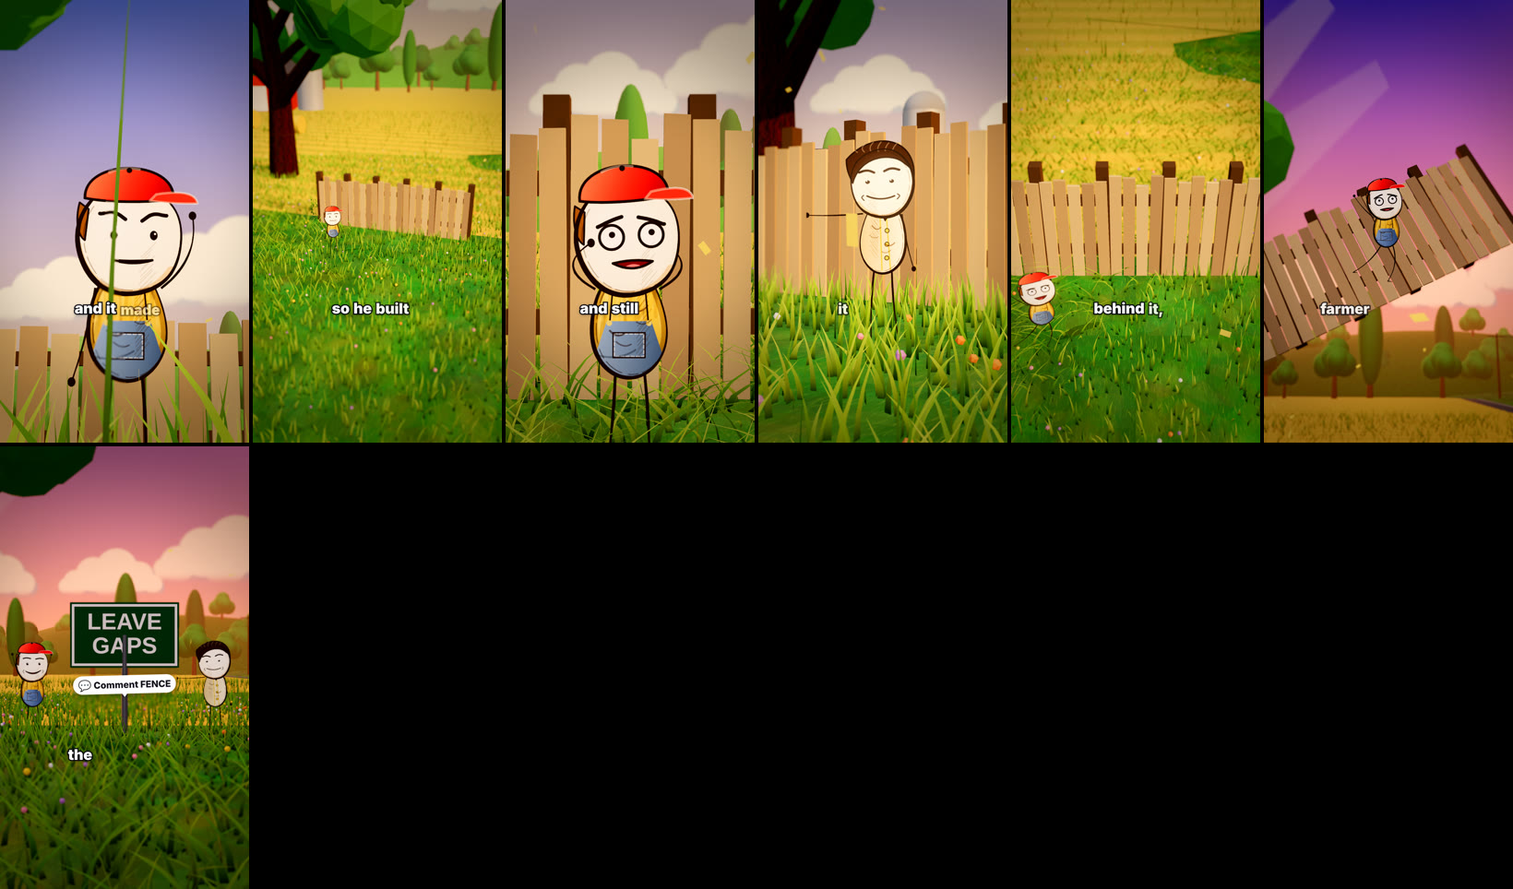
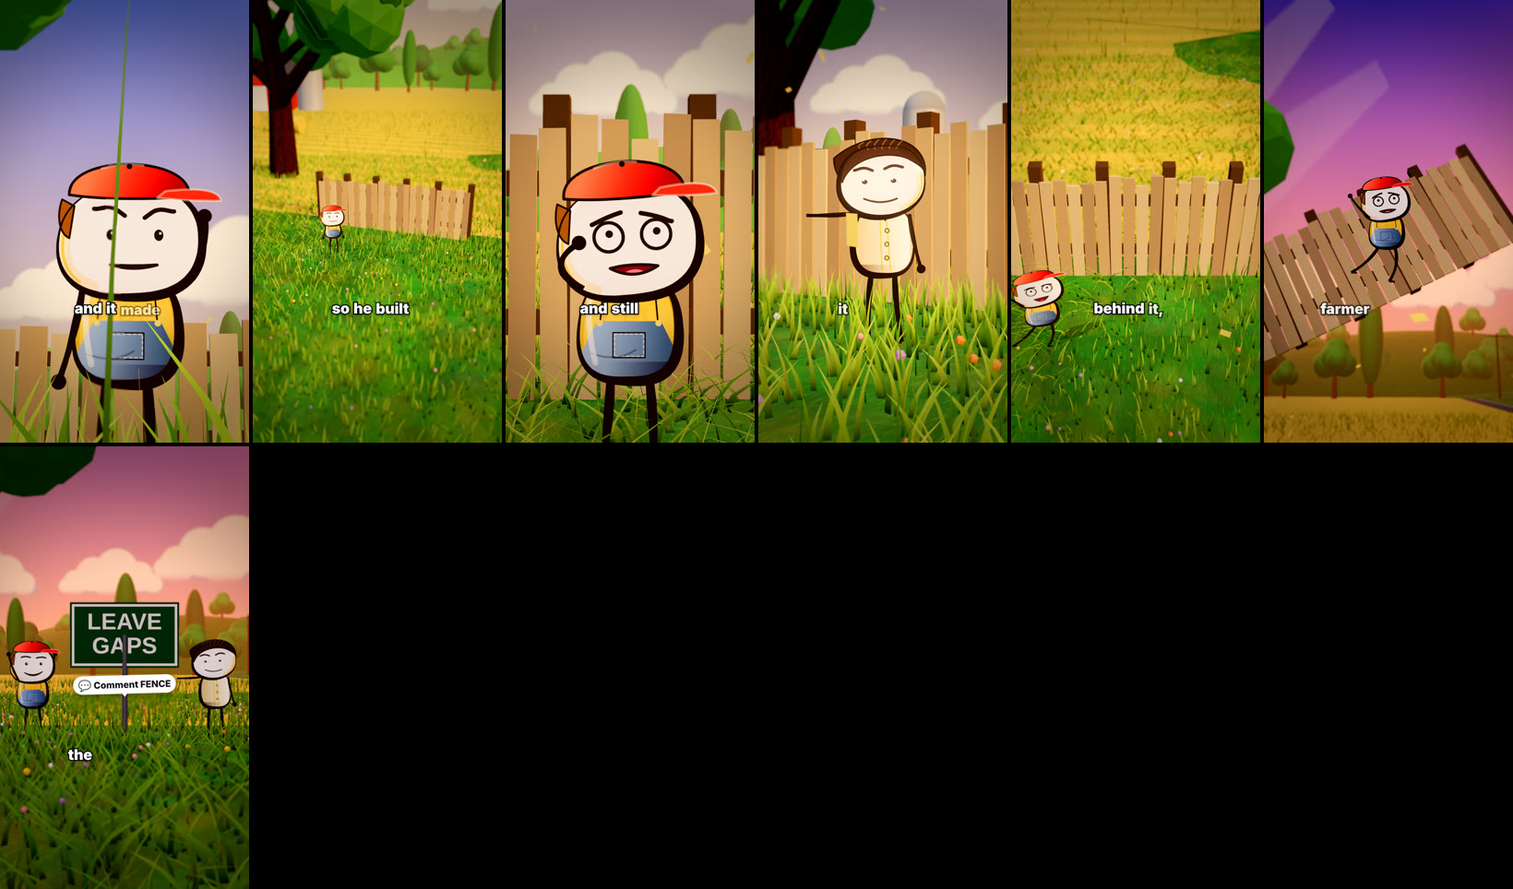
Style 2: lock character spec in skill; world R4 (leaf-card trees, bark, soft clouds, road, field, haze)
Claude-Session: https://claude.ai/code/session_01FGKfNCiFWzyKtetsktk6LF

diff --git a/reel-studio/remotion-template/src/three/worlds_country.js b/reel-studio/remotion-template/src/three/worlds_country.js
@@ -8,7 +8,7 @@ import { sky, clouds, sunlight, hills, tree, mat, T, canvasTex, wire } from './w
 const rnd = (i) => { const x = Math.sin(i * 127.1 + 311.7) * 43758.5453; return x - Math.floor(x); };
 const SKY = { day: ['#2F7FE0', '#BFE3F6', '#BFE4F7'], golden: ['#1F5BC0', '#EFCB98', '#E2B27A'], dusk: ['#4B3F9A', '#FFA070', '#E88A66'], night: ['#050A1E', '#1E2B55', '#0B1230'], storm: ['#4A5568', '#9AA5B1', '#7B8794'] };
 const SUN = { day: { col: '#FFF0D6', i: 3.0, pos: [10, 14, 8], hemi: 1.1, sky: '#CFE6FF', ground: '#B5A070', env: 0.3 }, golden: { col: '#FFC98A', i: 3.9, pos: [16, 7, 5], hemi: 0.7, sky: '#B8D2F2', ground: '#C49A5A', env: 0.28 }, dusk: { col: '#FFB27A', i: 2.7, pos: [-14, 5, -16], hemi: 0.85, sky: '#C9A6E0', ground: '#6A4A3A', env: 0.2 }, night: { col: '#9FB4FF', i: 0.9, pos: [-8, 12, 6], hemi: 0.35, sky: '#2A3A7A', ground: '#10162E', env: 0.06 }, storm: { col: '#DCE6F2', i: 1.2, pos: [6, 12, 6], hemi: 1.0, sky: '#9AA5B1', ground: '#5C6670', env: 0.15 } };
-const GRASS = { day: ['#2E6B22', '#79B83F'], golden: ['#35692A', '#9BC24A'], dusk: ['#2C5A2E', '#7FA84E'], night: ['#143826', '#3C7A5A'], storm: ['#2E5A34', '#6B9A56'] };
+const GRASS = { day: ['#3A6A2A', '#8CB04A'], golden: ['#3A6A2C', '#A3B84F'], dusk: ['#2C5A2E', '#7FA84E'], night: ['#143826', '#3C7A5A'], storm: ['#2E5A34', '#6B9A56'] };
 
 const tex = (key, w, h, draw, rep) => canvasTex(key, w, h, draw, rep);
 const groundTex = (time) => tex('gnd' + time, 1024, 1024, (g, w, h) => { const [a, b] = GRASS[time] || GRASS.day; g.fillStyle = a; g.fillRect(0, 0, w, h); for (let i = 0; i < 520; i++) { g.fillStyle = `rgba(${rnd(i) > 0.5 ? 255 : 20},${rnd(i * 3) > 0.4 ? 240 : 120},${rnd(i * 5) > 0.5 ? 120 : 20},0.05)`; g.beginPath(); g.ellipse(rnd(i * 7) * w, rnd(i * 11) * h, 20 + rnd(i * 13) * 90, 14 + rnd(i * 17) * 60, rnd(i) * 3, 0, 7); g.fill(); } g.strokeStyle = b; for (let i = 0; i < 9000; i++) { g.globalAlpha = 0.1 + rnd(i * 2) * 0.22; g.lineWidth = 1.2; const x = rnd(i * 3) * w, y = rnd(i * 5) * h; g.beginPath(); g.moveTo(x, y); g.lineTo(x + (rnd(i * 7) - 0.5) * 6, y - 6 - rnd(i * 9) * 14); g.stroke(); } g.globalAlpha = 1; }, [60, 60]);
@@ -34,19 +34,31 @@ function swayMaterial(uniforms, o = {}) {
       transformed.x += sw * hh * hh * uWind; transformed.z += cos(uTime * 1.3 + ip.z * 0.35) * 0.06 * hh * hh * uWind;`); };
   return m;
 }
+let LT; function leafTex() { if (LT) return LT; const lc = document.createElement('canvas'); lc.width = lc.height = 256; const lg = lc.getContext('2d'), greens = ['#1F4F1C', '#2F6B26', '#3F8A2E', '#5BA83C', '#7CC24A', '#A4D860'];
+    for (let i = 0; i < 70; i++) { const x = 20 + rnd(i) * 216, y = 20 + rnd(i * 3) * 216, a = rnd(i * 7) * 6.28, L = 26 + rnd(i * 5) * 22, c = greens[Math.floor(rnd(i * 11) * greens.length)]; lg.save(); lg.translate(x, y); lg.rotate(a); lg.fillStyle = c; lg.beginPath(); lg.moveTo(0, -L); lg.quadraticCurveTo(L * 0.7, -L * 0.2, 0, L); lg.quadraticCurveTo(-L * 0.7, -L * 0.2, 0, -L); lg.fill(); lg.strokeStyle = 'rgba(255,255,200,0.25)'; lg.lineWidth = 2; lg.beginPath(); lg.moveTo(0, -L * 0.8); lg.lineTo(0, L * 0.8); lg.stroke(); lg.restore(); }
+    LT = new THREE.CanvasTexture(lc); LT.colorSpace = THREE.SRGBColorSpace; return LT; }
+function leafTree(time, s, seed) {
+  const g = new THREE.Group(), trunk = new THREE.Mesh(new THREE.CylinderGeometry(0.1 * s, 0.16 * s, 2.2 * s, 8), new THREE.MeshStandardMaterial({ color: '#6B4A30', roughness: 1 })); trunk.position.y = 1.1 * s; g.add(trunk);
+  const N = 240, cards = new THREE.InstancedMesh(new THREE.PlaneGeometry(1, 1), new THREE.MeshStandardMaterial({ map: leafTex(), alphaTest: 0.5, side: THREE.DoubleSide, roughness: 0.9, color: time === 'night' ? '#3A5A48' : '#FFFFFF' }), N), D = new THREE.Object3D(), c = new THREE.Color();
+  for (let i = 0; i < N; i++) { const u = rnd(seed + i * 1.3) * 6.28, v = Math.acos(2 * rnd(seed + i * 2.1) - 1), r = (0.5 + rnd(seed + i * 3.7) * 0.5) * 1.9 * s; D.position.set(Math.sin(v) * Math.cos(u) * r * 1.2, 3.3 * s + Math.cos(v) * r * 0.95, Math.sin(v) * Math.sin(u) * r * 1.2); D.rotation.set(rnd(i * 5) * 6.28, rnd(i * 7) * 6.28, rnd(i * 9) * 6.28); D.scale.setScalar((0.9 + rnd(seed + i * 11) * 0.8) * s); D.updateMatrix(); cards.setMatrixAt(i, D.matrix); const sh = 0.6 + 0.5 * Math.max(0, Math.cos(v)) + rnd(i * 13) * 0.15; c.setRGB(sh, sh * 1.03, sh * 0.9); cards.setColorAt(i, c); }
+  g.add(cards); const core = new THREE.Mesh(new THREE.IcosahedronGeometry(1.2 * s, 1), new THREE.MeshStandardMaterial({ color: time === 'night' ? '#14281E' : '#25531F', roughness: 1, flatShading: true })); core.position.y = 3.3 * s; g.add(core); return g;
+}
 function bigOak(time, wind) {
-  const g = new THREE.Group(), bark = new THREE.MeshStandardMaterial({ map: barkTex(), roughness: 1, color: '#9A7A58' });
+  const g = new THREE.Group(), bark = new THREE.MeshStandardMaterial({ map: barkTex(), bumpMap: barkTex(), bumpScale: 2.2, roughness: 1, color: '#B89A78' });
   const seg = (a, b, r0, r1) => { const d = new THREE.Vector3().subVectors(b, a), m = new THREE.Mesh(new THREE.CylinderGeometry(r1, r0, d.length(), 10, 1), bark); m.position.copy(a).addScaledVector(d, 0.5); m.quaternion.setFromUnitVectors(new THREE.Vector3(0, 1, 0), d.clone().normalize()); m.castShadow = m.receiveShadow = true; g.add(m); };
   seg(new THREE.Vector3(0, 0, 0), new THREE.Vector3(0.1, 3.4, 0), 0.62, 0.42); seg(new THREE.Vector3(0.1, 3.4, 0), new THREE.Vector3(-0.3, 6.6, 0.2), 0.42, 0.26);
   const br = [[0.1, 3.0, [2.4, 5.2, 0.6], 0.2], [0.1, 3.4, [-2.6, 5.6, -0.4], 0.2], [-0.2, 5.0, [1.9, 7.6, 0.2], 0.15], [-0.2, 5.4, [-2.0, 7.9, 0.5], 0.15], [-0.3, 6.4, [0.6, 8.8, -0.6], 0.12], [0, 4.2, [3.6, 6.2, 1.4], 0.12]];
   br.forEach(([x, y, e, r]) => { const s0 = new THREE.Vector3(x, y, 0), e0 = new THREE.Vector3(...e); seg(s0, e0, r * 1.6, r); });
   const leaf = [['#2F6B26', 0.55], ['#4E9A3C', 0.5], ['#6DB84A', 0.45], ['#3C8230', 0.5]], tips = [[2.4, 5.2, 0.6], [-2.6, 5.6, -0.4], [1.9, 7.6, 0.2], [-2.0, 7.9, 0.5], [0.6, 8.8, -0.6], [3.6, 6.2, 1.4], [0, 7.2, 0]];
-  tips.forEach((tp, ti) => { for (let k = 0; k < 9; k++) { const c = leaf[(k + ti) % 4], m = new THREE.Mesh(new THREE.IcosahedronGeometry(0.75 + rnd(ti * 9 + k) * 0.7, 1), new THREE.MeshStandardMaterial({ color: time === 'night' ? '#244636' : c[0], roughness: 0.9, flatShading: true })); m.position.set(tp[0] + (rnd(ti * 13 + k) - 0.5) * 2.6, tp[1] + (rnd(ti * 17 + k) - 0.3) * 1.8, tp[2] + (rnd(ti * 19 + k) - 0.5) * 2.2); m.castShadow = m.receiveShadow = true; g.add(m); } });
+  { const lt = leafTex(); const N = 3200, cards = new THREE.InstancedMesh(new THREE.PlaneGeometry(1, 1), new THREE.MeshStandardMaterial({ map: lt, alphaTest: 0.5, side: THREE.DoubleSide, roughness: 0.85, color: time === 'night' ? '#4A6A58' : '#FFFFFF' }), N), DD = new THREE.Object3D(), cc = new THREE.Color(); cards.castShadow = cards.receiveShadow = true;
+    for (let i = 0; i < N; i++) { const tp = tips[i % tips.length], u = rnd(i * 1.3) * 6.28, v = Math.acos(2 * rnd(i * 2.1) - 1), rr = (0.6 + rnd(i * 3.7) * 1.4) * (1.1 + (i % tips.length === 6 ? 0.5 : 0)); const x = tp[0] + Math.sin(v) * Math.cos(u) * rr * 1.5, y = tp[1] + Math.cos(v) * rr * 1.1 + 0.3, z = tp[2] + Math.sin(v) * Math.sin(u) * rr * 1.4; DD.position.set(x, y, z); DD.rotation.set(rnd(i * 5) * 6.28, rnd(i * 7) * 6.28, rnd(i * 9) * 6.28); DD.scale.setScalar(0.7 + rnd(i * 11) * 0.7); DD.updateMatrix(); cards.setMatrixAt(i, DD.matrix); const sh = 0.55 + 0.6 * Math.max(0, Math.min(1, (y - 4) / 6)) + rnd(i * 13) * 0.15; cc.setRGB(sh, sh * 1.02, sh * 0.9); cards.setColorAt(i, cc); }
+    g.add(cards);
+    tips.forEach((tp, ti) => { for (let k = 0; k < 3; k++) { const m = new THREE.Mesh(new THREE.IcosahedronGeometry(0.9 + rnd(ti * 9 + k) * 0.5, 1), new THREE.MeshStandardMaterial({ color: time === 'night' ? '#14281E' : '#1F4A1E', roughness: 1, flatShading: true })); m.position.set(tp[0] + (rnd(ti * 13 + k) - 0.5) * 1.4, tp[1] + (rnd(ti * 17 + k) - 0.5) * 1.0, tp[2] + (rnd(ti * 19 + k) - 0.5) * 1.2); g.add(m); } }); }
   g.userData.sway = (t) => { g.rotation.z = Math.sin(t * 0.7) * 0.006 * wind; }; return g;
 }
 export function countryField(E, o = {}) {
   const time = o.time || 'day', scene = new THREE.Scene(), [top, hor, gnd] = SKY[time] || SKY.day, S = SUN[time] || SUN.day, wind = o.wind ?? 1, U = { uTime: { value: 0 }, uWind: { value: wind } };
-  sky(scene, { top, horizon: hor, ground: gnd }); scene.fog = new THREE.Fog(hor, o.fogNear ?? 45, o.fogFar ?? 230);
+  sky(scene, { top, horizon: hor, ground: gnd }); scene.fog = new THREE.Fog(hor, o.fogNear ?? 28, o.fogFar ?? 200);
   const sun = sunlight(scene, E, { col: S.col, i: S.i, pos: S.pos, sky: S.sky, ground: S.ground, hemi: S.hemi, env: S.env, box: 20 });
   const cl = clouds(scene, [[-60, 30, -150, 22], [20, 40, -170, 28], [90, 26, -140, 18], [-12, 22, -110, 13], [-95, 36, -130, 20], [50, 18, -100, 10], [140, 34, -150, 22]], time === 'night' ? '#3A4A7A' : time === 'dusk' ? '#FFB8A0' : time === 'storm' ? '#6C7683' : time === 'golden' ? '#FFE8C8' : '#FFFFFF');
   // ground: large rolling plane, mottled grass texture with low-frequency colour variation
@@ -55,13 +67,13 @@ export function countryField(E, o = {}) {
   geo.setAttribute('color', new THREE.Float32BufferAttribute(col, 3)); geo.computeVertexNormals();
   const ground = new THREE.Mesh(geo, mat({ map: groundTex(time), vertexColors: true })); ground.rotation.x = -Math.PI / 2; ground.position.y = -0.02; ground.receiveShadow = true; scene.add(ground);
   // road with cracks, edge lines, shoulders; wheat field with rows behind a wire fence; power poles with wires
-  if (o.road !== false) { const rx = o.roadX ?? 13; const rd = new THREE.Mesh(new THREE.PlaneGeometry(o.roadW || 5.4, 300), mat({ map: roadTex(time), roughness: 0.92 })); rd.material.map.repeat.set(1, 30); rd.rotation.x = -Math.PI / 2; rd.position.set(rx, 0.015, -100); rd.receiveShadow = true; scene.add(rd);
+  if (o.road !== false) { const rx = o.roadX ?? 13; const rd = new THREE.Mesh(new THREE.PlaneGeometry(o.roadW || 5.4, 560), mat({ map: roadTex(time), roughness: 0.92 })); rd.material.map.repeat.set(1, 56); rd.rotation.x = -Math.PI / 2; rd.position.set(rx, 0.03, -90); rd.receiveShadow = true; scene.add(rd);
     const pg = new THREE.Group(); const pm = mat({ color: '#6E4E36' }); for (let i = 0; i < 9; i++) { const z = 8 - i * 20, x = rx + 5.4; const pl = new THREE.Mesh(new THREE.CylinderGeometry(0.14, 0.19, 9, 10), pm); pl.position.set(x, 4.5, z); pl.castShadow = true; pg.add(pl); const cr = new THREE.Mesh(new THREE.BoxGeometry(2.4, 0.14, 0.14), pm); cr.position.set(x, 8.6, z); pg.add(cr); if (i < 8) [-1, 0, 1].forEach((k) => pg.add(wire(new THREE.Vector3(x + k * 1.0, 8.6, z), new THREE.Vector3(x + k * 1.0, 8.6, z - 20), 0.7, '#1a1a20'))); } scene.add(pg); }
-  const field = new THREE.Mesh(new THREE.PlaneGeometry(o.fieldW || 150, 120), mat({ map: fieldTex(time), roughness: 1 })); field.rotation.x = -Math.PI / 2; field.position.set(o.fieldX ?? -62, 0.02, -62); field.receiveShadow = true; scene.add(field);
+  const field = new THREE.Mesh(new THREE.PlaneGeometry(o.fieldW || 215, o.fieldD || 240), mat({ map: fieldTex(time), roughness: 1 })); field.material.map.wrapS = field.material.map.wrapT = THREE.RepeatWrapping; field.material.map.repeat.set(7, 6); field.rotation.x = -Math.PI / 2; field.position.set(o.fieldX ?? -95, 0.02, -120); field.receiveShadow = true; scene.add(field);
   const fp = new THREE.Group(), fm = mat({ color: '#7A6040' }); for (let i = 0; i < 38; i++) { const x = -20 - i * 3.2, post = new THREE.Mesh(new THREE.BoxGeometry(0.12, 1.3, 0.12), fm); post.position.set(x, 0.65, -9); post.castShadow = true; fp.add(post); if (i < 37) [0.45, 0.8, 1.15].forEach((y) => fp.add(wire(new THREE.Vector3(x, y, -9), new THREE.Vector3(x - 3.2, y, -9), 0.05, '#2a2a2a'))); } scene.add(fp);
-  hills(scene, { z: -95, col: time === 'night' ? '#244636' : time === 'dusk' ? '#7FA55E' : '#79C25A' });
+  hills(scene, { treeFn: (s, k) => leafTree(time, s, k), z: -95, col: time === 'night' ? '#244636' : time === 'dusk' ? '#7FA55E' : '#79C25A' });
   // treeline, the oak, barn + silo, bales
-  for (let i = 0; i < 46; i++) { const a = -70 + i * 3.4 + rnd(i) * 3, z = -60 - rnd(i * 3) * 30, t = tree(1.4 + rnd(i * 5) * 1.5, i % 3 ? (time === 'night' ? '#2A5240' : '#3E8A34') : '#2C6A2C', i % 4 === 0 ? 'cypress' : 'round'); t.position.set(a, 0, z); scene.add(t); }
+  for (let i = 0; i < 46; i++) { const a = -70 + i * 3.4 + rnd(i) * 3, z = -60 - rnd(i * 3) * 30, t = i % 4 === 0 ? tree(1.4 + rnd(i * 5) * 1.5, '#2C6A2C', 'cypress') : leafTree(time, 1.5 + rnd(i * 5) * 1.6, i * 7); t.position.set(a, 0, z); scene.add(t); }
   const oak = bigOak(time, wind); oak.position.set(o.oakAt?.[0] ?? -7.5, 0, o.oakAt?.[1] ?? -7); oak.scale.setScalar(o.oakScale ?? 1.3); scene.add(oak);
   const barn = new THREE.Group(), red = mat({ color: time === 'night' ? '#5A2A28' : '#B03A2E' }), wh = mat({ color: '#F2EEE4' });
   const bx = (w, h, d, m, x, y, z, parent) => { const b = new THREE.Mesh(new THREE.BoxGeometry(w, h, d), m); b.position.set(x, y, z); b.castShadow = b.receiveShadow = true; parent.add(b); return b; };
@@ -79,7 +91,7 @@ export function countryField(E, o = {}) {
     for (let i = 0; i < 7; i++) { const r = new THREE.Mesh(new THREE.PlaneGeometry(16 + i * 3, 150), new THREE.MeshBasicMaterial({ map: rayTex(), transparent: true, opacity: 0.14, blending: THREE.AdditiveBlending, depthWrite: false, fog: false, side: THREE.DoubleSide })); r.position.copy(dir.clone().multiplyScalar(80)).add(new THREE.Vector3(i * 2 - 6, -18, 0)); r.lookAt(dir.clone().multiplyScalar(300)); r.rotateZ(-0.5 + i * 0.2); scene.add(r); rays.push(r); }
   }
   // grass: 30k blades in three bands (tall foreground, medium, wheat), plus a few flowers
-  const bg = bladeGeometry(), gm = swayMaterial(U), blade = (n, f) => { const im = new THREE.InstancedMesh(bg, gm, n), D = new THREE.Object3D(), c = new THREE.Color(); for (let i = 0; i < n; i++) { const r = f(i); D.position.set(r.x, 0, r.z); D.rotation.set(0, rnd(i * 5) * 6.28, 0); D.scale.set(0.9 + rnd(i * 3) * 0.5, r.h, 1); D.updateMatrix(); im.setMatrixAt(i, D.matrix); c.setHSL(0.24 + rnd(i * 9) * 0.05, 0.55 + rnd(i * 4) * 0.2, 0.6 + rnd(i * 6) * 0.35); im.setColorAt(i, c); } im.castShadow = false; im.receiveShadow = true; im.frustumCulled = false; scene.add(im); return im; };
+  const bg = bladeGeometry(), gm = swayMaterial(U), blade = (n, f) => { const im = new THREE.InstancedMesh(bg, gm, n), D = new THREE.Object3D(), c = new THREE.Color(); for (let i = 0; i < n; i++) { const r = f(i); D.position.set(r.x, 0, r.z); D.rotation.set(0, rnd(i * 5) * 6.28, 0); D.scale.set(0.9 + rnd(i * 3) * 0.5, r.h, 1); D.updateMatrix(); im.setMatrixAt(i, D.matrix); c.setHSL(0.2 + rnd(i * 9) * 0.07, 0.42 + rnd(i * 4) * 0.16, 0.38 + rnd(i * 6) * 0.3); im.setColorAt(i, c); } im.castShadow = false; im.receiveShadow = true; im.frustumCulled = false; scene.add(im); return im; };
   blade(26000, (i) => { const a = rnd(i * 1.7) * 6.28, r = Math.sqrt(rnd(i * 5.1)) * 16; return { x: Math.cos(a) * r + 0.4, z: Math.sin(a) * r * 0.9 + 0.8, h: 0.16 + rnd(i * 7) * 0.34 }; });
   blade(9000, (i) => { const a = rnd(i * 2.3) * 6.28, r = 7 + Math.sqrt(rnd(i * 4.1)) * 30; return { x: Math.cos(a) * r, z: Math.sin(a) * r * 0.9 - 4, h: 0.3 + rnd(i * 9) * 0.5 }; });
   const wmat = swayMaterial(U, { roughness: 0.9 }), wheat = new THREE.InstancedMesh(bg, wmat, 9000), D2 = new THREE.Object3D(), c2 = new THREE.Color();
@@ -88,7 +100,7 @@ export function countryField(E, o = {}) {
   for (let i = 0; i < 500; i++) { const a = rnd(i) * 6.28, r = 2 + rnd(i * 3.3) * 14; FD.position.set(Math.cos(a) * r, 0.16 + rnd(i) * 0.12, Math.sin(a) * r * 0.9 - 1); FD.scale.setScalar(0.5 + rnd(i * 5) * 0.4); FD.updateMatrix(); flw.setMatrixAt(i, FD.matrix); flw.setColorAt(i, new THREE.Color(['#F2D23A', '#F29BB5', '#FFFFFF', '#B98ACF', '#F28C4A'][i % 5])); } scene.add(flw);
   const leafGeo = new THREE.PlaneGeometry(0.09, 0.05), leaves = new THREE.InstancedMesh(leafGeo, new THREE.MeshBasicMaterial({ color: time === 'night' ? '#6A7AA8' : '#E8C25A', side: THREE.DoubleSide, transparent: true, opacity: 0.85, fog: false }), 140), LD = new THREE.Object3D(); scene.add(leaves);
   const flutter = (t) => { for (let i = 0; i < 140; i++) { const sp = 1.2 + rnd(i) * 2.2, x = ((rnd(i * 3) * 40 - 20 + t * sp * wind) % 40 + 40) % 40 - 20, y = 0.4 + rnd(i * 7) * 3.2 + Math.sin(t * 2 + i) * 0.25, z = -6 + rnd(i * 11) * 12; LD.position.set(x, y, z); LD.rotation.set(t * 3 + i, t * 2.2 + i * 2, t * 1.7); LD.updateMatrix(); leaves.setMatrixAt(i, LD.matrix); } leaves.instanceMatrix.needsUpdate = true; };
-  return { scene, sun, reflect: false, look: { bloom: time === 'night' ? 0.9 : 0.22, bloomThreshold: 0.92, vignette: 0.34, grain: 0.018, warm: time === 'golden' || time === 'dusk' ? 0.06 : 0.02, exposure: time === 'night' ? 0.9 : 1.0, saturation: 1.22, contrast: 1.14, aperture: 0.004, maxblur: 0.012 },
+  return { scene, sun, reflect: false, look: { bloom: time === 'night' ? 0.9 : 0.22, bloomThreshold: 0.92, vignette: 0.34, grain: 0.018, warm: time === 'golden' || time === 'dusk' ? 0.06 : 0.02, exposure: time === 'night' ? 0.9 : 1.0, saturation: 1.1, contrast: 1.1, aperture: 0.004, maxblur: 0.012 },
     subjects: { field: { pos: [0, 0, 0], height: 1.9, rotY: 0 }, oak: { pos: [oak.position.x, 0, oak.position.z], height: 9, rotY: 0 }, barn: { pos: [barn.position.x, 0, barn.position.z], height: 5, rotY: 0 }, windmill: { pos: [mill.position.x, 0, mill.position.z], height: 13, rotY: 0 }, horizon: { pos: [0, 4, -90], height: 20, rotY: 0 }, sky: { pos: [0, 40, -100], height: 30, rotY: 0 } },
     update(t) { U.uTime.value = t; flutter(t); oak.userData.sway(t); rotor.rotation.z = -t * 0.9 * wind; cl.forEach((c, i) => { c.position.x = [-60, 20, 90, -12, -95, 50, 140][i] + Math.sin(t * 0.05 + i) * 3 + t * 0.4 * wind; }); rays.forEach((r, i) => { r.material.opacity = 0.1 + 0.05 * Math.sin(t * 0.5 + i * 1.7); }); } };
 }

diff --git a/reel-studio/remotion-template/src/three/world.js b/reel-studio/remotion-template/src/three/world.js
@@ -126,12 +126,15 @@ export function sky(scene, { top = '#3D8EE0', horizon = '#BFE4F7', ground = '#BF
 let cloudT = null;
 function cloudTex() {
   if (cloudT) return cloudT;
-  const c = document.createElement('canvas'); c.width = 512; c.height = 256; const g = c.getContext('2d');
-  const puffs = [[110, 175, 58], [185, 140, 80], [285, 118, 96], [380, 150, 70], [250, 178, 70], [440, 180, 44], [70, 190, 36]];
-  g.filter = 'blur(3px)';
-  g.fillStyle = '#B9CCE6'; puffs.forEach(([x, y, r]) => { g.beginPath(); g.arc(x + 4, y + 14, r, 0, 7); g.fill(); });
-  g.fillStyle = '#FFFFFF'; puffs.forEach(([x, y, r]) => { g.beginPath(); g.arc(x - 2, y - 2, r * 0.92, 0, 7); g.fill(); });
-  g.globalCompositeOperation = 'destination-out'; g.filter = 'blur(10px)'; g.fillRect(0, 214, 512, 60);
+  const c = document.createElement('canvas'); c.width = 768; c.height = 384; const g = c.getContext('2d');
+  const R = (i) => { const x = Math.sin(i * 91.7 + 13.1) * 43758.5453; return x - Math.floor(x); };
+  const puffs = []; for (let i = 0; i < 34; i++) { const u = R(i), x = 90 + u * 590, hump = Math.sin(u * Math.PI), r = 34 + R(i + 40) * 46 * (0.5 + hump * 0.7), y = 270 - hump * 110 * (0.5 + R(i + 80)) - R(i + 120) * 22; puffs.push([x, y, r]); }
+  g.filter = 'blur(13px)';
+  g.fillStyle = '#B4C3DC'; puffs.forEach(([x, y, r]) => { g.beginPath(); g.arc(x + 6, y + 22, r, 0, 7); g.fill(); });
+  g.fillStyle = '#DCE6F4'; puffs.forEach(([x, y, r]) => { g.beginPath(); g.arc(x, y + 6, r * 0.97, 0, 7); g.fill(); });
+  g.fillStyle = '#FFFFFF'; puffs.forEach(([x, y, r]) => { g.beginPath(); g.arc(x - 4, y - 8, r * 0.82, 0, 7); g.fill(); });
+  g.fillStyle = '#FFF8EC'; puffs.forEach(([x, y, r]) => { g.beginPath(); g.arc(x - 9, y - 16, r * 0.5, 0, 7); g.fill(); });
+  g.globalCompositeOperation = 'destination-out'; g.filter = 'blur(12px)'; g.fillRect(0, 316, 768, 80);
   cloudT = new THREE.CanvasTexture(c); cloudT.colorSpace = THREE.SRGBColorSpace; return cloudT;
 }
 export function clouds(scene, list, tint = '#FFFFFF') {
@@ -147,12 +150,12 @@ export function sunlight(scene, E, { col = '#FFF0D6', i = 2.6, pos = [6, 10, 6],
 }
 
 // ---------- reusable bits ----------
-export function hills(scene, { col = '#79C25A', z = -90, list } = {}) {
+export function hills(scene, { col = '#79C25A', z = -90, list, treeFn } = {}) {
   const g = new THREE.Group(); scene.add(g);
   (list || [[-40, z, 34, 12], [10, z - 10, 46, 16], [60, z + 4, 36, 11], [-90, z + 10, 40, 10]]).forEach(([x, zz, r, h], i) => {
     const m = new THREE.Mesh(new THREE.SphereGeometry(1, 32, 16), mat({ color: shade(col, 0.92 + rnd(i) * 0.16), map: T.grass(col, [6, 3]) }));
     m.scale.set(r, h, r * 0.6); m.position.set(x, -h * 0.25, zz); g.add(m);
-    for (let k = 0; k < 6; k++) { const a = rnd(i * 9 + k) * 2 - 1; const t = tree(0.5 + rnd(k) * 0.4); t.position.set(x + a * r * 0.6, h * (0.75 - Math.abs(a) * 0.45) - 1, zz + r * 0.25); t.scale.multiplyScalar(2.2); g.add(t); }
+    for (let k = 0; k < 6; k++) { const a = rnd(i * 9 + k) * 2 - 1; const t = treeFn ? treeFn(0.5 + rnd(k) * 0.4, i * 31 + k) : tree(0.5 + rnd(k) * 0.4); t.position.set(x + a * r * 0.6, h * (0.75 - Math.abs(a) * 0.45) - 1, zz + r * 0.25); t.scale.multiplyScalar(2.2); g.add(t); }
   });
   return g;
 }

diff --git a/reel-studio/skills/character-design/STYLE2-LOCKED.md b/reel-studio/skills/character-design/STYLE2-LOCKED.md
@@ -1,0 +1,19 @@
+# Style 2 character (2D character in a 3D world): LOCKED look
+
+User-approved against the reference (r21, r26). Use it for every style 2 story. Do not redesign; change only costume colours, hats, hair and faces. Code: `remotion-template/src/three/stickdraw.js` (renderer), `cast_designs.js` (the four designs, `canvas` looks). Compare tool: render designs next to reference crops and LOOK before and after any edit.
+
+Head
+- Rounded squarish blob (superellipse n about 2.3), broad jaw, a little wider than tall: `headW` 1.18, base radius 186. Per-character tilt via `asym` +1/-1. No bumps, no oval.
+- Near-white warm skin `#fffcf6`. Soft shading only: faint cool shade lower right, faint shade under hat or hair on the forehead and under the chin.
+- Yellow shadow: amber glow (34 px, alpha 0.35) plus thin deeper rim (9 px) along the lit left edge.
+- Outline: base 15, swells to about 5x on the shadow side (lower right, light angle -2.3), thin on the lit side. No dashed inner line, no face hatching, no cheek lines.
+- Face features scaled 1.2x: bold squint eyes, big open grin, thick brows.
+
+Body
+- Wide pear or jelly bean, rounder and fuller at the bottom: half width 140 x `torsoW` (1.1), lower bulge 0.08, outline base 17, same light angle.
+- Clothes flat saturated colour, soft light-to-shade gradient across, white gloss streak down the lit side, two faint fold shadows near the shadow edge, one or two bold shapes (bib, vest trim and buttons, patch, hi-vis bands). No hatching, no streak noise.
+
+Limbs
+- Thick: legs taper 30 to 24, arms 24 to 18, shoes short thick strokes. Hands are solid black balls (radius 23).
+
+Check before shipping any change: render the sheet, put it over the reference crops, compare head shape, skin white, outline weight and side, feature size, body width and bottom fullness, clothes flatness. Fix and re-render until each matches.

diff --git a/reel-studio/docs/styles/QUALITY-SCORES.md b/reel-studio/docs/styles/QUALITY-SCORES.md
@@ -25,3 +25,13 @@ Gaps left: sets are mostly dark voids; no detailed rooms (CCTV wall, car dash, n
 ## Changes behind the scores
 Style 2: character now DRAWN every frame with Canvas2D (`three/stickdraw.js`: joints, 3/4 turn, brows, blinks, continuous mouth, boiling line at 12 fps) instead of baked PNGs; world rebuilt (`three/worlds_country.js`: 30k GPU-swaying grass blades, detailed oak, wheat rows, fence line, power poles, silo, golden low sun, saturation and contrast grade).
 Style 3: ink eyes with highlights, head cel shade, rim light colour per scene, torso fold lines (`components/stick/stickman_svg.js`).
+
+## Style 2 world, R4 (three side-by-sides: r21 tree on road, r21 roadside close-up, our oak wide, our oak close-up; file COMPARE-style2-world-v3.jpg)
+| criterion | reference | R3 | R4 |
+|---|---|---|---|
+| foliage and trees (leaf cards, bark relief) | 9 | 4 | 7.5 |
+| sky and clouds | 8.5 | 5 | 6.5 |
+| ground, grass, road continuity | 8.5 | 6 | 7 |
+| props and story set dressing (car, signs, chair) | 9 | 4 | 4.5 |
+| depth and haze | 8.5 | 5 | 7 |
+Done in R4: 3200-card painted-leaf oak canopy and leaf-card trees on the treeline and hills, bark bump relief, less neon grass, soft layered clouds, longer road, larger wheat field, atmospheric fog. Still BELOW the reference on props (no cars, signs, chairs) and sky realism. Next: car and roadside prop kit, volumetric-looking clouds, dusty road shoulder.

diff --git a/reel-studio/skills/character-design/SKILL.md b/reel-studio/skills/character-design/SKILL.md
@@ -9,3 +9,4 @@ Read `docs/CHARACTER-BIBLE.md` (all of it: it is the spec). Library: `characters
 3. Prove it acts: `node tools/character_sheet.mjs characters/<id>.json` (every emotion, measured against calm), then OPEN the sheet and run the vision critic `faces`.
 4. Use the same `look` object in every shot; give each character its own voice and `emotion` per line (at least three emotions per story).
 Never copy a character from a reference. Never put a stylised character in a photoreal set.
+Style 2 (2D character in a 3D world): the look is LOCKED in `STYLE2-LOCKED.md` (same folder). Read it and keep it; do not redesign.
